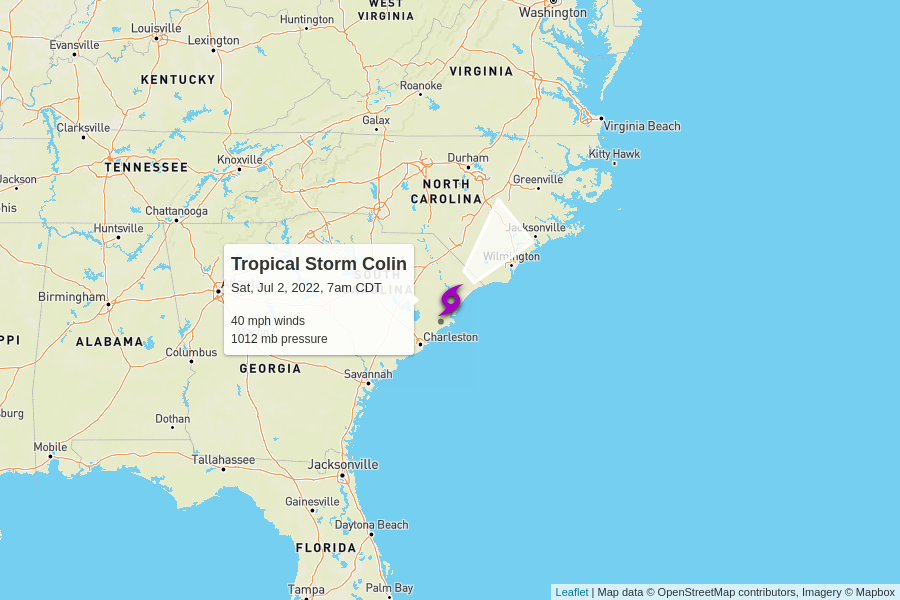
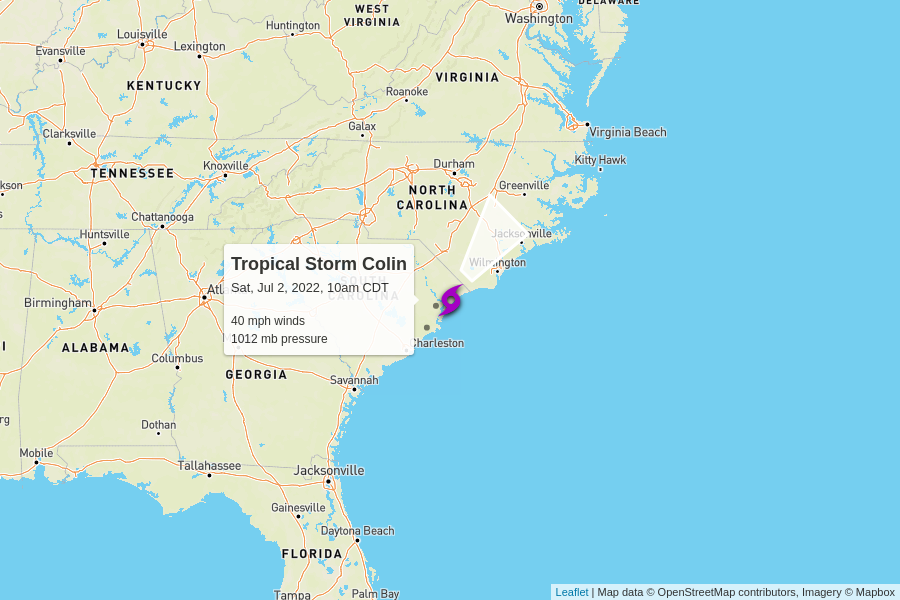
automatic update

Changed region(s): [[0.0, 0.0, 0.7778, 1.0], [0.3733, 0.45, 0.4356, 0.51], [0.0933, 0.66, 0.1244, 0.72]]

diff --git a/docs/index.html b/docs/index.html
@@ -99,6 +99,50 @@
       <tr>
         <td colspan="6" class="storm category-0" >
           <h2>
+            Tropical Storm Colin
+            <p class="updated">last updated <span data-time>2022-07-02T15:00:00.000Z</span></p>
+          </h2>
+        </td>
+      </tr>
+      
+      <tr>
+        <th class="spacer"></th>
+        <th>wind speed</th>
+        <th>central pressure</th>
+        <th>movement</th>
+        <th>data (CSV)</th>
+        <th>National Hurricane Center</th>
+      </tr>
+      <tr>
+        <td class="spacer"></td>
+        <td>40 mph</td>
+        <td>1012 mb</td>
+        <td>
+          7 mph to the northeast
+          <br/>
+          <span style="display: inline-block; font-size: 1.5em; transform: rotate(40deg);">↑</span>
+        </td>
+        <td><a href="https://raw.githubusercontent.com/mgwalker/atlantic-hurricanes/main/data/csv/AL032022.csv">AL032022.csv</a></td>
+        <td><a href="https://www.nhc.noaa.gov/archive/2022/COLIN.shtml?">NHC advisories</a></td>
+      </tr>
+      <tr id="storm_AL032022" >
+        <td class="spacer">
+        <td colspan="5">
+          <figure>
+            <img src="AL032022.png">
+            <figcaption>
+              Map data &copy; <a href="https://www.openstreetmap.org/copyright">OpenStreetMap</a> contributors,
+              Imagery &copy; <a href="https://www.mapbox.com/">Mapbox</a> |
+              <a href="https://www.mapbox.com/map-feedback/" target="_blank">Improve this map</a>
+            </figcaption>
+          </figure>
+        </td>
+      </tr>
+      
+
+      <tr>
+        <td colspan="6" class="storm category-0" >
+          <h2>
             Tropical Storm Bonnie
             <p class="updated">last updated <span data-time>2022-07-02T12:00:00.000Z</span></p>
           </h2>
@@ -130,50 +174,6 @@
         <td colspan="5">
           <figure>
             <img src="AL022022.png">
-            <figcaption>
-              Map data &copy; <a href="https://www.openstreetmap.org/copyright">OpenStreetMap</a> contributors,
-              Imagery &copy; <a href="https://www.mapbox.com/">Mapbox</a> |
-              <a href="https://www.mapbox.com/map-feedback/" target="_blank">Improve this map</a>
-            </figcaption>
-          </figure>
-        </td>
-      </tr>
-      
-
-      <tr>
-        <td colspan="6" class="storm category-0" >
-          <h2>
-            Tropical Storm Colin
-            <p class="updated">last updated <span data-time>2022-07-02T12:00:00.000Z</span></p>
-          </h2>
-        </td>
-      </tr>
-      
-      <tr>
-        <th class="spacer"></th>
-        <th>wind speed</th>
-        <th>central pressure</th>
-        <th>movement</th>
-        <th>data (CSV)</th>
-        <th>National Hurricane Center</th>
-      </tr>
-      <tr>
-        <td class="spacer"></td>
-        <td>40 mph</td>
-        <td>1012 mb</td>
-        <td>
-          8 mph to the northeast
-          <br/>
-          <span style="display: inline-block; font-size: 1.5em; transform: rotate(45deg);">↑</span>
-        </td>
-        <td><a href="https://raw.githubusercontent.com/mgwalker/atlantic-hurricanes/main/data/csv/AL032022.csv">AL032022.csv</a></td>
-        <td><a href="https://www.nhc.noaa.gov/archive/2022/COLIN.shtml?">NHC advisories</a></td>
-      </tr>
-      <tr id="storm_AL032022" >
-        <td class="spacer">
-        <td colspan="5">
-          <figure>
-            <img src="AL032022.png">
             <figcaption>
               Map data &copy; <a href="https://www.openstreetmap.org/copyright">OpenStreetMap</a> contributors,
               Imagery &copy; <a href="https://www.mapbox.com/">Mapbox</a> |
